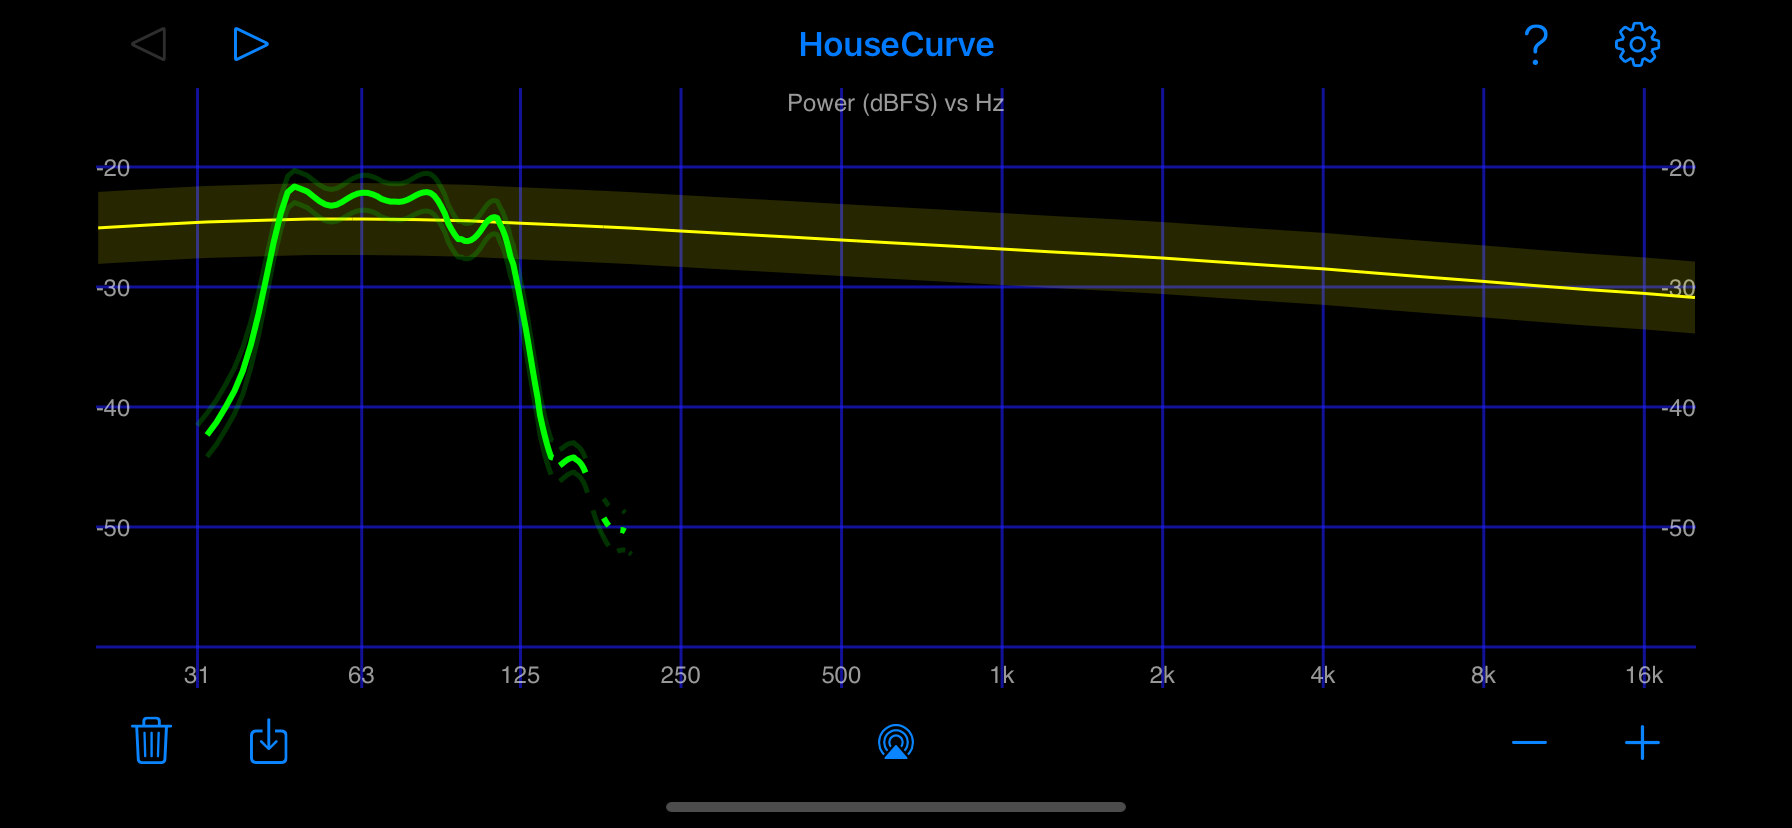
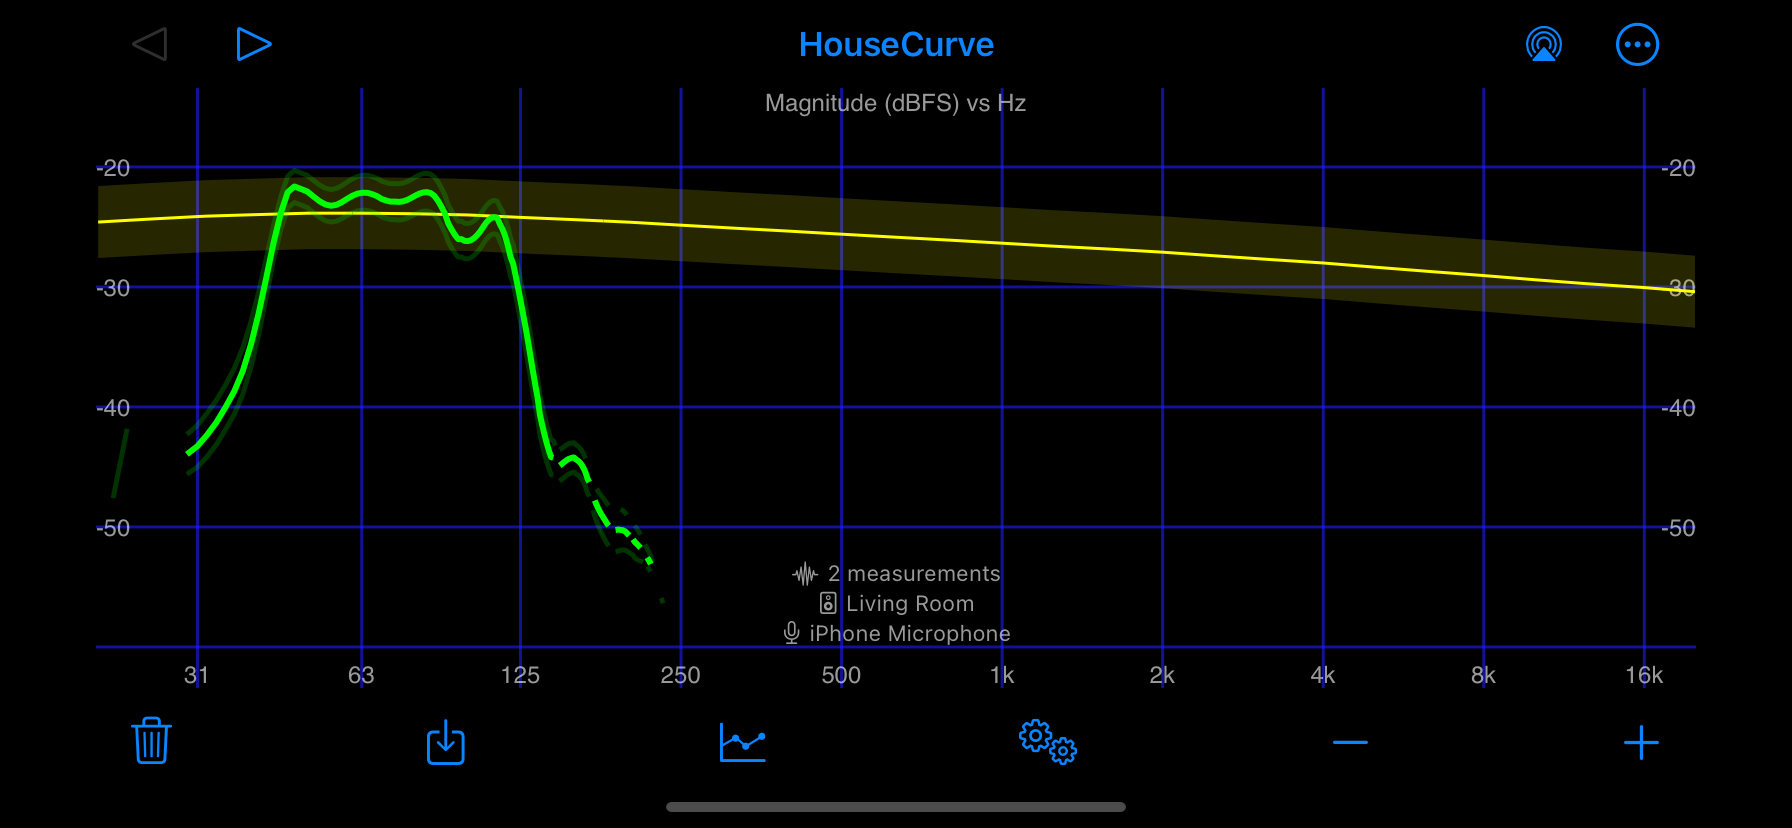
Updating usage images to new interface

diff --git a/USAGE.md b/USAGE.md
@@ -47,11 +47,11 @@ The measurement process starts when [<img src="/assets/img/measure.png" alt="Mea
 
 The stages of the measurement process are displayed in the [Measurement Status](/MANUAL.md#measurement-status) area at the top of the screen.
 
-![housecurve listening](/assets/img/housecurve_listening.png "Press measure to start measurement process")
+![listening](/assets/img/measurement_listening.png "Press measure to start measurement process")
 
 When a measurement succeeds it will be displayed on the plots as shown below. 
 
-![housecurve success](/assets/img/housecurve_success.png "When measurement succeeds, it is displayed on plot")
+![successful measurement](/assets/img/measurement_success.png "When measurement succeeds, it is displayed")
 
 HouseCurve will abort the measurement process for the following reasons:
 
@@ -73,7 +73,7 @@ When [Coherence Blanking](/MANUAL.md#coherence-blanking) is enabled, only portio
 
 For example, the measurement below was taken in the presence of external noise (someone talking).  This significantly contaminated the measurement and unusable sections have been blanked.  This measurement should probably be discarded.
 
-![housecurve low coherence](/assets/img/housecurve_low_coherence.png "Low coherence parts of measurement are blanked")
+![low coherence](/assets/img/measurement_coherence.png "Low coherence parts of measurement are blanked")
 
 Signal to noise issues are typically resolved by removing sources of noise or increasing the volume of the audio system.  In rare situations the microphone may be faulty.
 
@@ -83,19 +83,19 @@ HouseCurve displays successful measurements on the magnitude, phase and group de
 
 The **magnitude plot** is the most important plot for tuning.  The overall level of the magnitude measurement is the “volume” or output power of the audio system.  The level differences between frequencies are what we want to change when [applying equalization](/TUNING.md#apply-equalization).
 
-![magnitude plot](/assets/img/housecurve_magnitude_plot.png "Magnitude plot")
+![magnitude plot](/assets/img/measurement_magnitude.png "Magnitude plot")
 
 The magnitude plot is commonly referred to as the “frequency response” of the audio system.  Since the magnitude plot is displayed in decibels, it is also correct to refer to it as the "power" plot.
 
 The **phase plot** shows the phase of the measurement versus frequency.  Phase plots can be used for [time aligning speakers](/TUNING.md#time-align-using-phase).
 
-![phase plot](/assets/img/housecurve_phase_plot.png "Phase plot")
+![phase plot](/assets/img/measurement_phase.png "Phase plot")
 
 This style of phase plot is traditionally referred to as a “wrapped phase” plot.  The vertical green lines on the plot are referred to as “wraps”.  A wrap is a frequency where the phase exceeds the range of the plot and “wraps” around to the other vertical extreme of the plot.  A wrap is an artifact of the plot and not and indication that the phase is suddenly changing by 360 degrees.
 
 The **group delay plot** shows “when” the sound at a given frequency arrives at the microphone.  The group delay plot can be used to double check [speaker time alignment](/TUNING.md#time-align-speakers).  Extreme peaks in the group delay may indicate regions that can’t be fixed by equalization, such as poor time alignment or problematic room interactions.
 
-![group delay](/assets/img/housecurve_group_delay_plot.png "Group delay plot")
+![group delay plot](/assets/img/measurement_delay.png "Group delay plot")
 
 
 ### Subwoofer measurements
